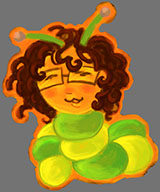
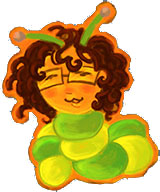
Add files via upload

diff --git a/index.html b/index.html
@@ -1,56 +1,26 @@
+<!DOCTYPE html>
 <html lang="en">
 <head>
     <meta charset="UTF-8">
     <meta name="viewport" content="width=device-width, initial-scale=1.0">
-    <title>
-       About Me_By Mackenze K. Lewis Yang
-    </title>
-
-        <style>
-            body {
-                background-color:bisque;
-                font-family:'Gill Sans', 'Gill Sans MT', Calibri, 'Trebuchet MS', sans-serif;}
-
-            h1 {
-                color:brown;}
-
-            h4 {
-                color:brown;}
-
-            p {
-                color:#663333;}
-                
-            li {
-                color:#663333;}
-             
-
-        </style>
-
+    <title>GRD 311 Multimedia II</title>
 </head>
+
 <body>
-     <h1>Mackenzie Lewis Yang</h1>
 
-     <img src="profile_pic_me.jpg" alt="profile pciture">
-<h4>
-    About me
-</h4>
 
-<p> 
-I am 19 years old, born on March 27th.       
- Born in  Windsor, Ontario.     
- I have a part-time job.
-</p>
+    <h1>
+        
+        GRD 311 || Design for Multimedia II
 
-<h4>
-    Things I like
-</h4>
+    </h1>
 
-<ul>
-    <li>Splatoon</li>
-    <li> Team Fortress 2</li>
-    <li>youtube crime docs</li>
-    <li>My favourtie song at the moment is 'Holy, Holy' by Geodrie Greep</li>
-</ul>
-
+   <p>List of assignments</p>
+   <li>
+    <a href="week_01/index.html">week 1</a>
+   </li>
+   <li>
+    <a href="week_02/index.html">week 2</a>
+   </li>
 </body>
 </html>

diff --git a/week_02/index.html b/week_02/index.html
@@ -30,11 +30,7 @@
 <body>
      <h1>Mackenzie Lewis Yang</h1>
 
-    <img src="
-profile_pic_me.jpg
-" alt="" srcset="
-profile pciture
-">
+     <img src="profile_pic_me.jpg" alt="profile pciture">
 <h4>
     About me
 </h4>

diff --git a/week_01/index.html b/week_01/index.html
@@ -10,11 +10,7 @@
     </h1>
 </head>
 <body>
-    <img src="
-c:\Users\lewis\Downloads\22598416
-" alt="" srcset="
-place holder
-">
+    <img src="profile_pic_me.jpg" alt="profile pciture">
 <h4>
     About me
 </h4>
